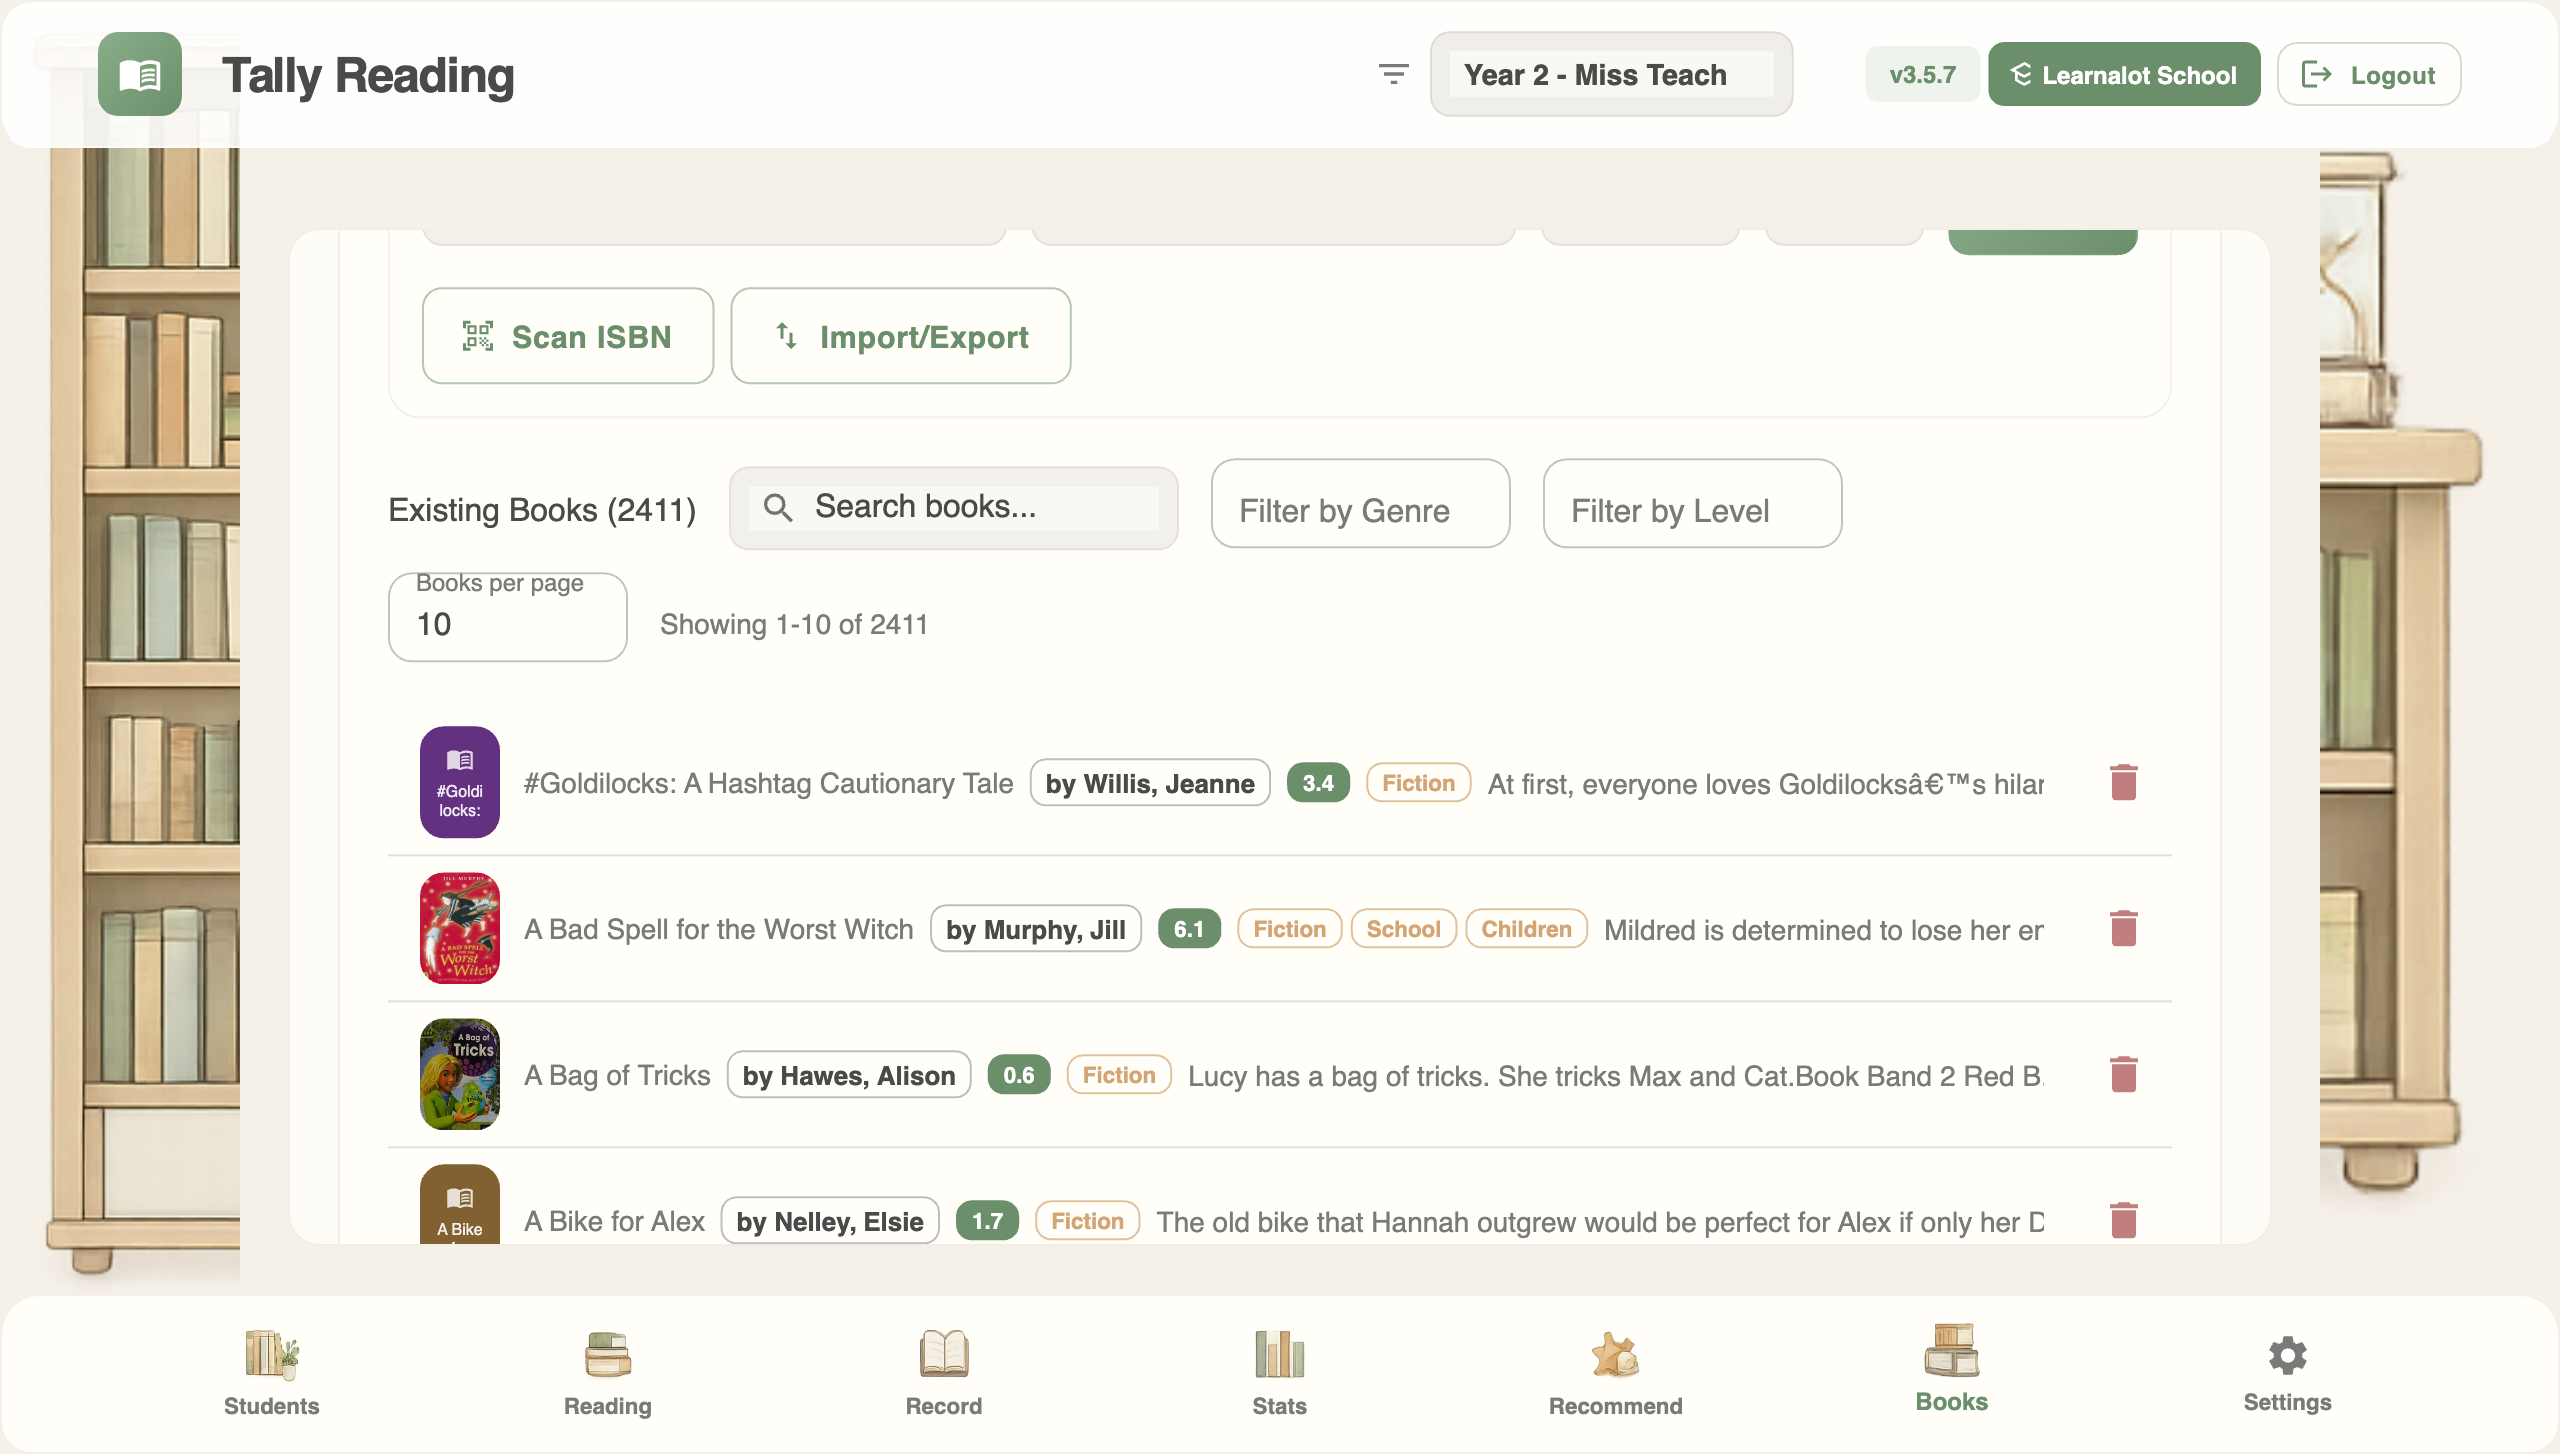
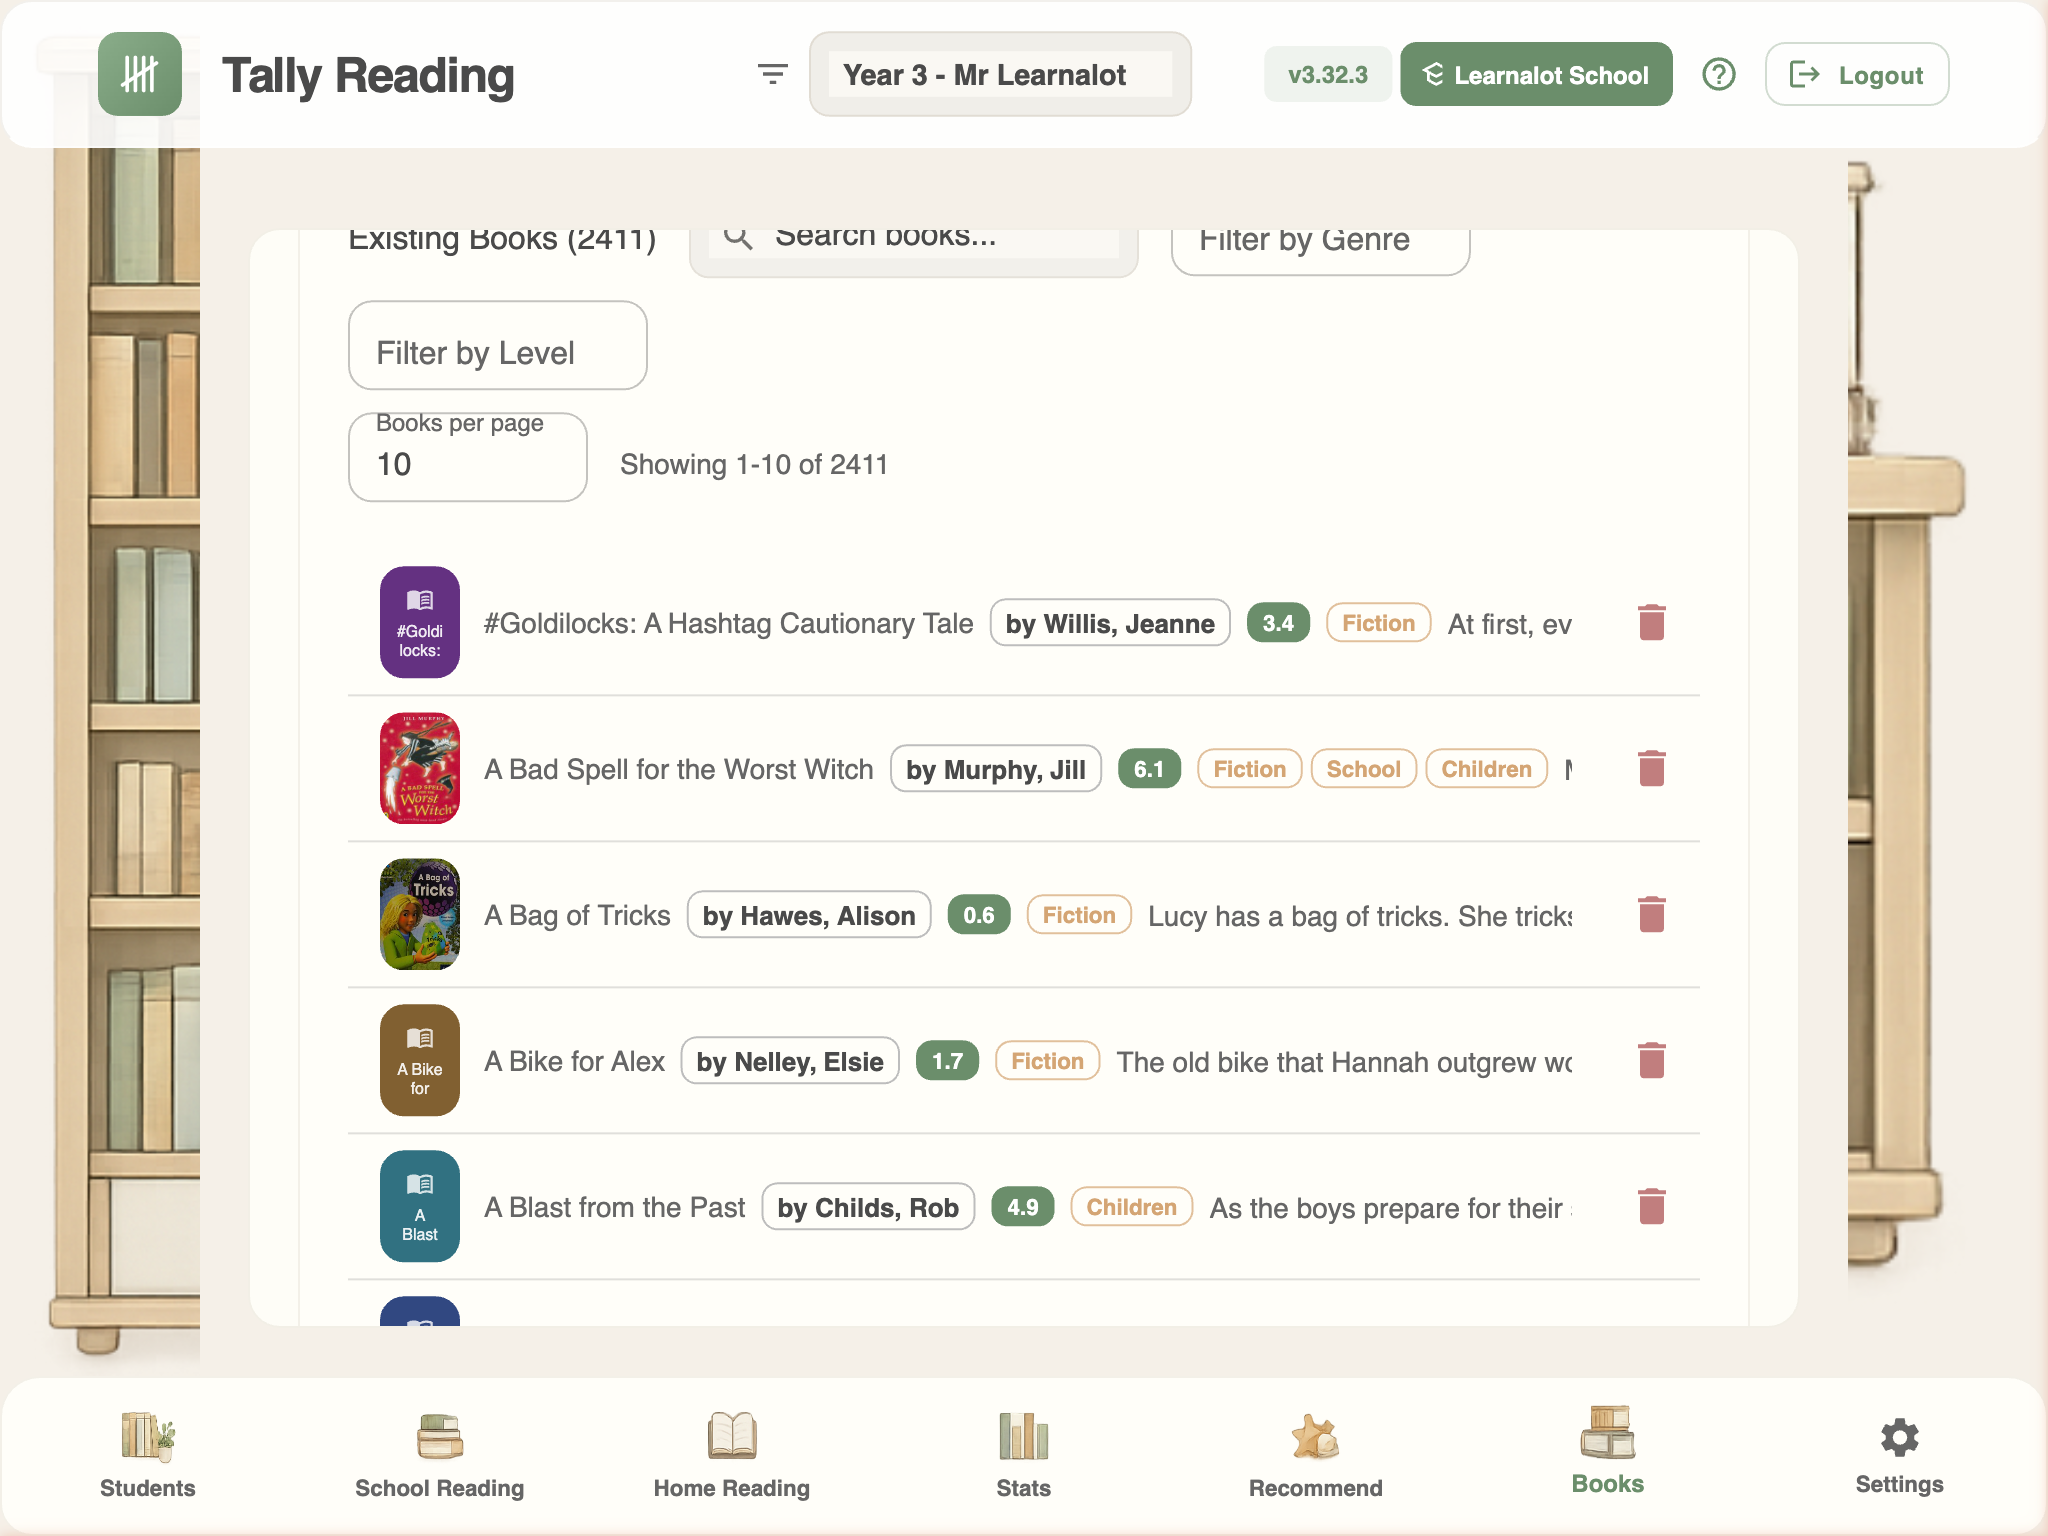
chore: refresh landing page screenshots and home reading messaging (v3.32.4)
- Replace all 6 screenshots with iPad 4:3 captures from live app
- Add "Save 10 minutes per class, every day" home reading messaging
- Update book count to 2,400+

diff --git a/src/components/LandingPage.js b/src/components/LandingPage.js
@@ -203,9 +203,9 @@ export default function LandingPage({ onSignIn }) {
                 desc: "AI-powered book suggestions based on each child's reading level, interests, and what they've enjoyed before. The right book at the right time.",
               },
               {
-                icon: '📊',
-                title: 'Priority reading list',
-                desc: "Automatically surfaces who needs a reading session most. See at a glance who's been waiting longest, so no child gets overlooked.",
+                icon: '🏠',
+                title: 'Home reading without the hassle',
+                desc: "Replace paper reading diaries with a quick digital register. One tap per child, per day — saving teachers roughly 10 minutes per class on admin alone.",
               },
               {
                 icon: '🏫',
@@ -254,13 +254,13 @@ export default function LandingPage({ onSignIn }) {
                 alt: 'Recording a reading session',
               },
               {
-                tag: 'Class register',
+                tag: 'Home reading',
                 tagClass: 'lp-tag-coral',
                 tagIcon: '📋',
-                title: 'The whole class at a glance',
-                desc: "A simple register view showing who's been read with today, their current books, and running totals. Quick mark-off with one tap — tick, absent, or not seen.",
+                title: 'Save 10 minutes per class, every day',
+                desc: "No more chasing paper diaries or deciphering ticks. Parents record reading at home, teachers see the whole class in one register — who's read, how often, and what book they're on. That's roughly 10 minutes back per class, per day.",
                 img: screenshotRegister,
-                alt: 'Reading record register view',
+                alt: 'Home reading register view',
               },
               {
                 tag: 'AI recommendations',
@@ -284,7 +284,7 @@ export default function LandingPage({ onSignIn }) {
                 tag: 'Book library',
                 tagClass: 'lp-tag-coral',
                 tagIcon: '📚',
-                title: '2,000+ books and growing',
+                title: '2,400+ books and growing',
                 desc: "A shared book library with covers, reading levels, and genres. Search, filter, scan barcodes, or import your whole collection from a CSV. No more guessing what's available.",
                 img: screenshotBooks,
                 alt: 'Book library management',

diff --git a/CHANGELOG.md b/CHANGELOG.md
@@ -1,5 +1,12 @@
 # Changelog
 
+## [3.32.4] - 2026-03-29
+
+### Changed
+- **Landing page screenshots** — replaced all 6 screenshots with fresh captures from the live app (Learnalot School), now at iPad 4:3 aspect ratio (2048×1536 @2x retina)
+- **Home reading messaging** — renamed "Class register" showcase to "Home reading" with headline "Save 10 minutes per class, every day"; replaced "Priority reading list" feature card with "Home reading without the hassle" emphasising time savings
+- **Book count** — updated from "2,000+ books" to "2,400+ books" to reflect current library size
+
 ## [3.32.3] - 2026-03-27
 
 ### Changed
